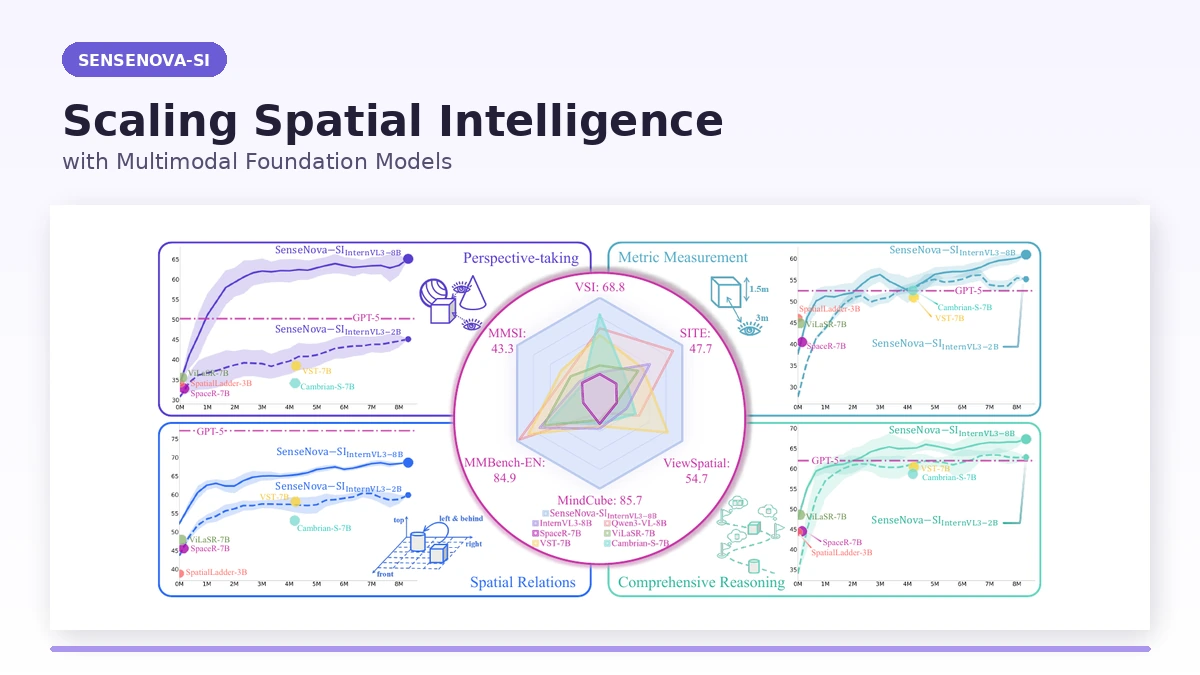
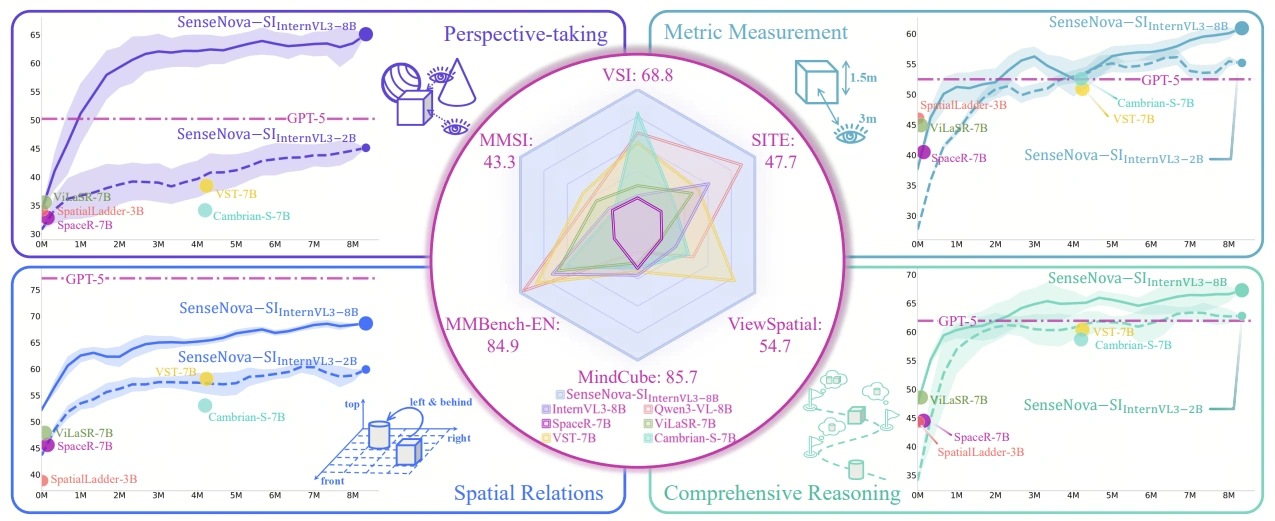
[shixuanke] update sensenova-si image

diff --git a/publications.md b/publications.md
@@ -55,7 +55,7 @@ title: Publications
     <div class="publication-details">
       <span class="publication-year">2026</span>
       <h2><a href="https://openaccess.thecvf.com/content/CVPR2026/papers/Cai_Scaling_Spatial_Intelligence_with_Multimodal_Foundation_Models_CVPR_2026_paper.pdf">Scaling Spatial Intelligence with Multimodal Foundation Models</a></h2>
-      <p class="publication-authors">Zhongang Cai, Ruisi Wang, Chenyang Gu, Fanyi Pu, Junxiang Xu, Yubo Wang, Wanqi Yin, Zhitao Yang, Chen Wei, Tongxi Zhou, Qingping Sun, Hui En Pang, Jiaqi Li, Oscar Qian, Zhiqian Lin, <strong>Xuanke Shi</strong>, Kewang Deng, Xiaoyang Han, Zukai Chen, Xiangyu Fan, Hanming Deng, Lewei Lu, Liang Pan, Bo Li, Ziwei Liu, Quan Wang, Dahua Lin, Lei Yang</p>
+      <p class="publication-authors">Zhongang Cai, Ruisi Wang, Chenyang Gu, Fanyi Pu, Junxiang Xu, et al., <strong>Xuanke Shi</strong>, et al.</p>
       <p class="publication-venue">IEEE/CVF Conference on Computer Vision and Pattern Recognition (CVPR), 2026</p>
       <div class="publication-links"><a href="https://openaccess.thecvf.com/content/CVPR2026/papers/Cai_Scaling_Spatial_Intelligence_with_Multimodal_Foundation_Models_CVPR_2026_paper.pdf">Paper</a><a href="https://github.com/OpenSenseNova/SenseNova-SI">Code</a><a href="https://huggingface.co/collections/sensenova/sensenova-si">Hugging Face Space</a><a href="https://easi.lmms-lab.com/leaderboard/">Leaderboard</a></div>
     </div>